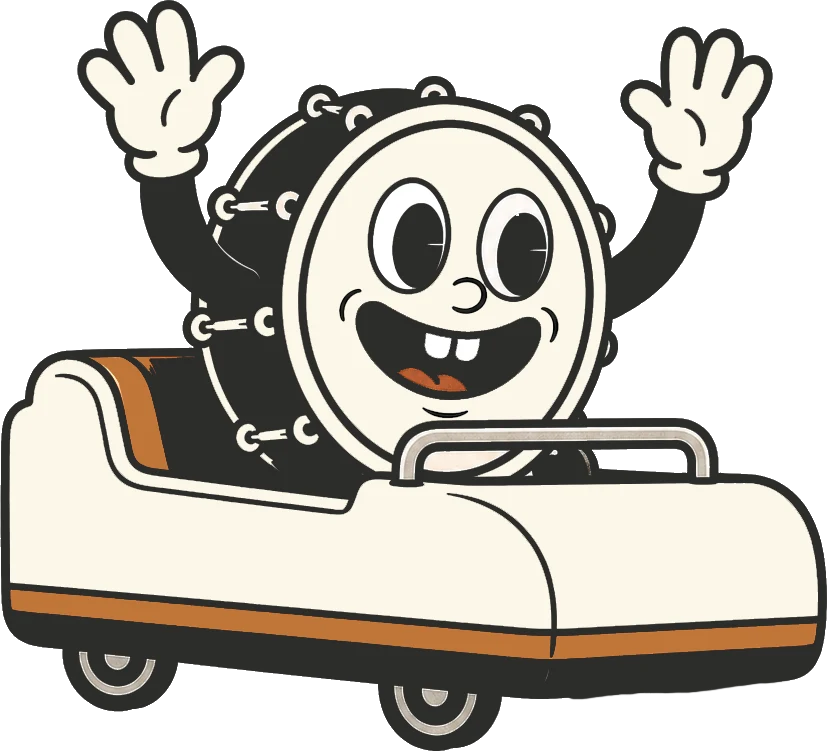
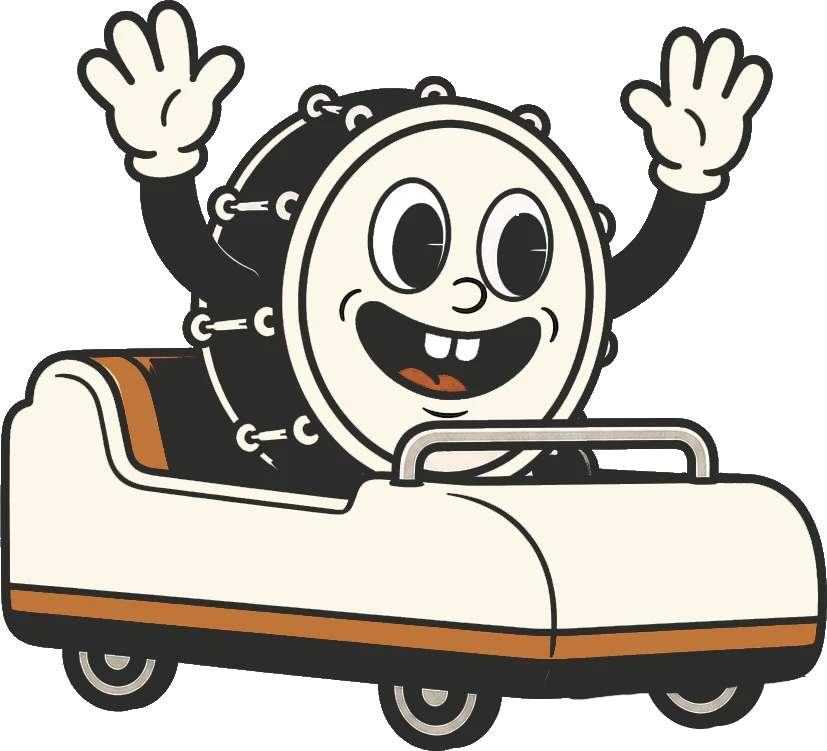
Buzz's rear wheel: the game's behind-the-rails layer laid under him (#55)
Claude-Session: https://claude.ai/code/session_01EmtaLu9Z2SESFRXpAj7RKS

Changed region(s): [[0.786, 0.8881, 0.9371, 0.98], [0.9976, 0.735, 1.0, 0.8269]]

diff --git a/CLAUDE.md b/CLAUDE.md
@@ -645,7 +645,10 @@ when the view is tilted up, as his screenshot was, never in the opening view. No
 hand, and a click or tap flies in to him and opens his card, BUZZ'S WILD RIDE, its line and LET'S RIDE out to
 https://buzzs-wild-ride.netlify.app/ (THE EGG in `src/nav.mjs`, `egg` on the prop; `#wild-ride` opens it): "should it go
 to a card about buzz's wild ride? If the cam zooms in it should show a higher res version as it gets closer", then, of
-drafts, "1, D, I" (Carl, 9 Nov 2026). His picture is the drawing's full size (827px), so he stays sharp up close, and the camera lands closer on him than the
+drafts, "1, D, I" (Carl, 9 Nov 2026). His picture is the drawing's full size (827px), so he stays sharp up close, its layer from behind the rails
+(`buzz-car-behind.png`, kept in `art/buzz-car-behind-source.png`) laid under it so his rear wheel shows: "in wild ride,
+there's a second image that is layered behind the main cart so that the rails render in between his audience-facing wheels
+and his rear wheel" (Carl, 10 Nov 2026), the room having no rails to put between them; and the camera lands closer on him than the
 3 degree lens other things stop at (`minFov`): "coaster buzz needs to be way bigger in frame" (Carl, 9 Nov 2026). He answers anywhere in a box at least 48px across round him, a fingertip's size: "he
 needs a tappable hitbox" (Carl, 9 Nov 2026). Nothing on the site mentions him. A tap on a phone squashes him about his wheels as it does any standing thing (`give`):
 with none, every frame after the tap threw and the room froze, "It glitched out when I clicked buzz on my phone" (Carl, 10
